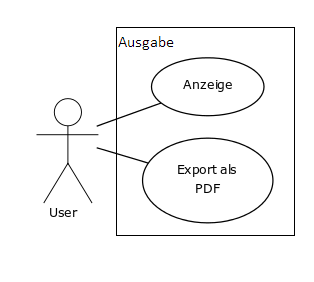
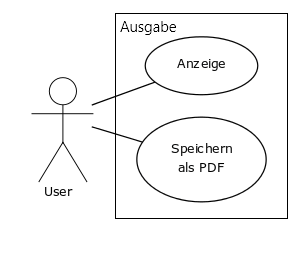
Export -> Speichern unter

diff --git a/Pflichtenheft_SoftwareProjekt2018.md b/Pflichtenheft_SoftwareProjekt2018.md
@@ -13,7 +13,7 @@
 
 #### Ausgabe
 	- Anzeige des zusammengefassten Texts
-	- Export als PDF
+	- Speichern als PDF
 
 ![Use Case Ausgabe](https://raw.githubusercontent.com/FHB-SS18-Softwareprojekt/Dokumentation/Pflichtenheft/bilder/Ausgabe_Use_Case_Diagramm.png)
 
@@ -62,12 +62,12 @@
 | :----:| :----:|:--------------------------:|:------:|:-----------:|:---------:|
 | Anzeige | User | eine Vorschau des zusammengefassten Text haben | man sehen kann ob die gewählten Einstellungen passend sind | Der Text wird im Programm als Vorschau angezeigt | muss |
 
-#### Export
-	- Als Nutzer möchte ich den zusammengefassten Text als PDF exportieren können, um diesen später wiederverwenden zu können.
+#### Speichern unter
+	- Als Nutzer möchte ich den zusammengefassten Text als PDF speichern können, um diesen später wiederverwenden zu können.
 
 | Name	| Rolle	| In meiner Rolle möchte ich | so dass| Akzeptanz	| Priorität	|
 | :----:| :----:|:--------------------------:|:------:|:-----------:|:---------:|
-|Export | User | den zusammengefassten Text als Datei exportieren können | der Text gespeichert werden kann und wiederverwendbar ist | Es gibt die Möglichkeit Texte zu exportieren | muss |
+|Speichern unter | User | den zusammengefassten Text als Datei speichern können | der Text gespeichert werden kann und wiederverwendbar ist | Es gibt die Möglichkeit Texte zu speichern | muss |
 
 #### Kürzen um X%
 	- Als Nutzer möchte ich einstellen können, um wie viel Prozent der Text gekürzt werden soll, falls ich eine kurze beziehungsweise lange Zusammenfassung brauche.
@@ -101,7 +101,7 @@
 ##### Import
 Eine Datei aus einem Verzeichnis laden, um diese im Programm zu nutzen.
 
-##### Export
+##### Speichern unter
 Die Ausgabe der Zusammenfassung als Datei in einem Verzeichnis speichern.
 
 ##### Ausgabe
